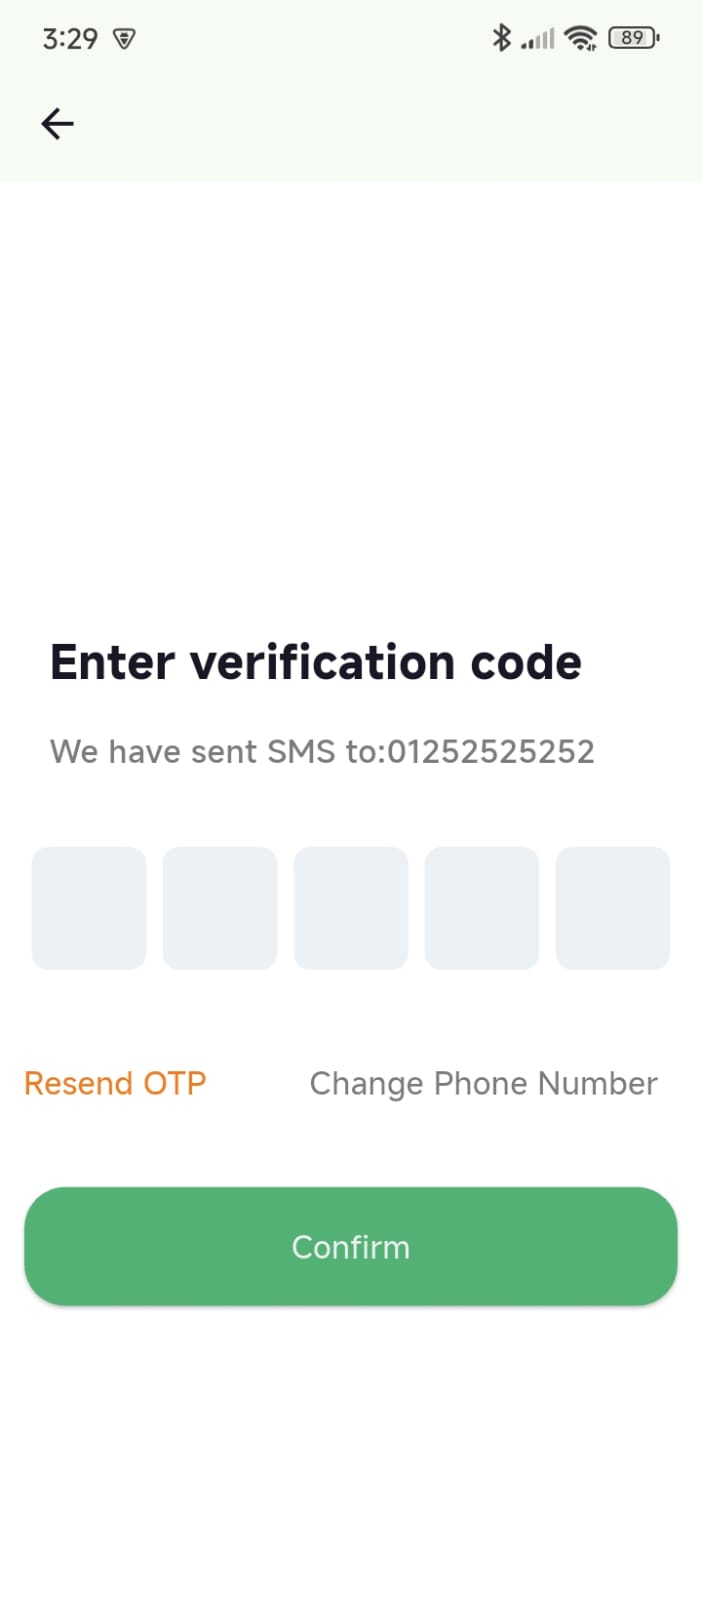
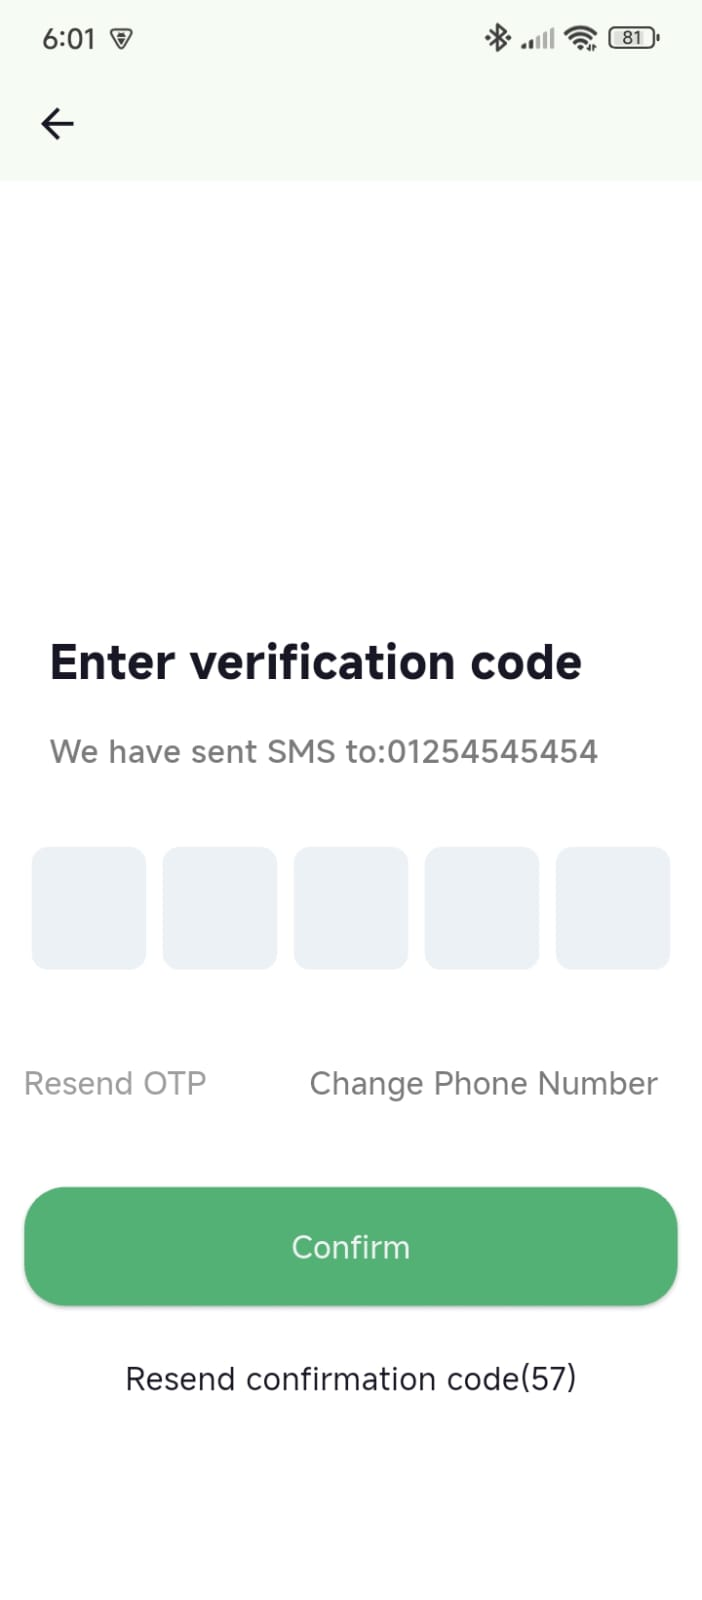
Add OTP timer & update README

diff --git a/lib/features/auth/verification_screens/otp_screen.dart b/lib/features/auth/verification_screens/otp_screen.dart
@@ -1,3 +1,5 @@
+import 'dart:async';
+
 import 'package:flutter/material.dart';
 import 'package:green_mart/core/theme/colors.dart';
 import 'package:green_mart/core/widgets/inputs/main_button.dart';
@@ -13,6 +15,31 @@ class OtpScreen extends StatefulWidget {
 class _OtpScreenState extends State<OtpScreen> {
   final formKey = GlobalKey<FormState>();
   final pinController = TextEditingController();
+  ///////////////////////
+  
+  Timer? _timer;
+  void startTimeDown() {
+    _timer?.cancel();
+    setState(() {
+      _remainingTime = 60;
+    });
+    _timer = Timer.periodic(Duration(seconds: 1), (timer) {
+      if (_remainingTime > 0) {
+        setState(() {
+          _remainingTime--;
+        });
+      } else {
+        timer.cancel();
+      }
+    });
+  }
+
+  int _remainingTime = 60;
+  @override
+  void initState() {
+    super.initState();
+    startTimeDown();
+  }
 
   @override
   Widget build(BuildContext context) {
@@ -83,12 +110,14 @@ class _OtpScreenState extends State<OtpScreen> {
                       Align(
                         alignment: AlignmentGeometry.topRight,
                         child: TextButton(
-                          onPressed: () {},
+                          onPressed: _remainingTime == 0 ? startTimeDown : null,
                           child: Text(
                             "Resend OTP",
                             style: TextStyle(
                               fontSize: 14,
-                              color: AppColors.tangoColor,
+                              color: _remainingTime == 0
+                                  ? AppColors.tangoColor
+                                  : Colors.grey,
                             ),
                           ),
                         ),
@@ -113,6 +142,15 @@ class _OtpScreenState extends State<OtpScreen> {
                   SizedBox(height: 27),
 
                   MainButton(onPressed: () {}, text: "Confirm"),
+                  SizedBox(height: 24),
+
+                  Row(
+                    mainAxisAlignment: MainAxisAlignment.center,
+                    children: [
+                      Text("Resend confirmation code"),
+                      Text("($_remainingTime)"),
+                    ],
+                  ),
                 ],
               ),
             ),

diff --git a/lib/features/auth/verification_screens/phone_input_screen.dart b/lib/features/auth/verification_screens/phone_input_screen.dart
@@ -90,9 +90,6 @@ class _PhoneInputScreenState extends State<PhoneInputScreen> {
                     },
                     text: "Next",
                   ),
-                  SizedBox(height: 24),
-
-                  Text("Resend confirmation code (1:23)"),
                 ],
               ),
             ),
